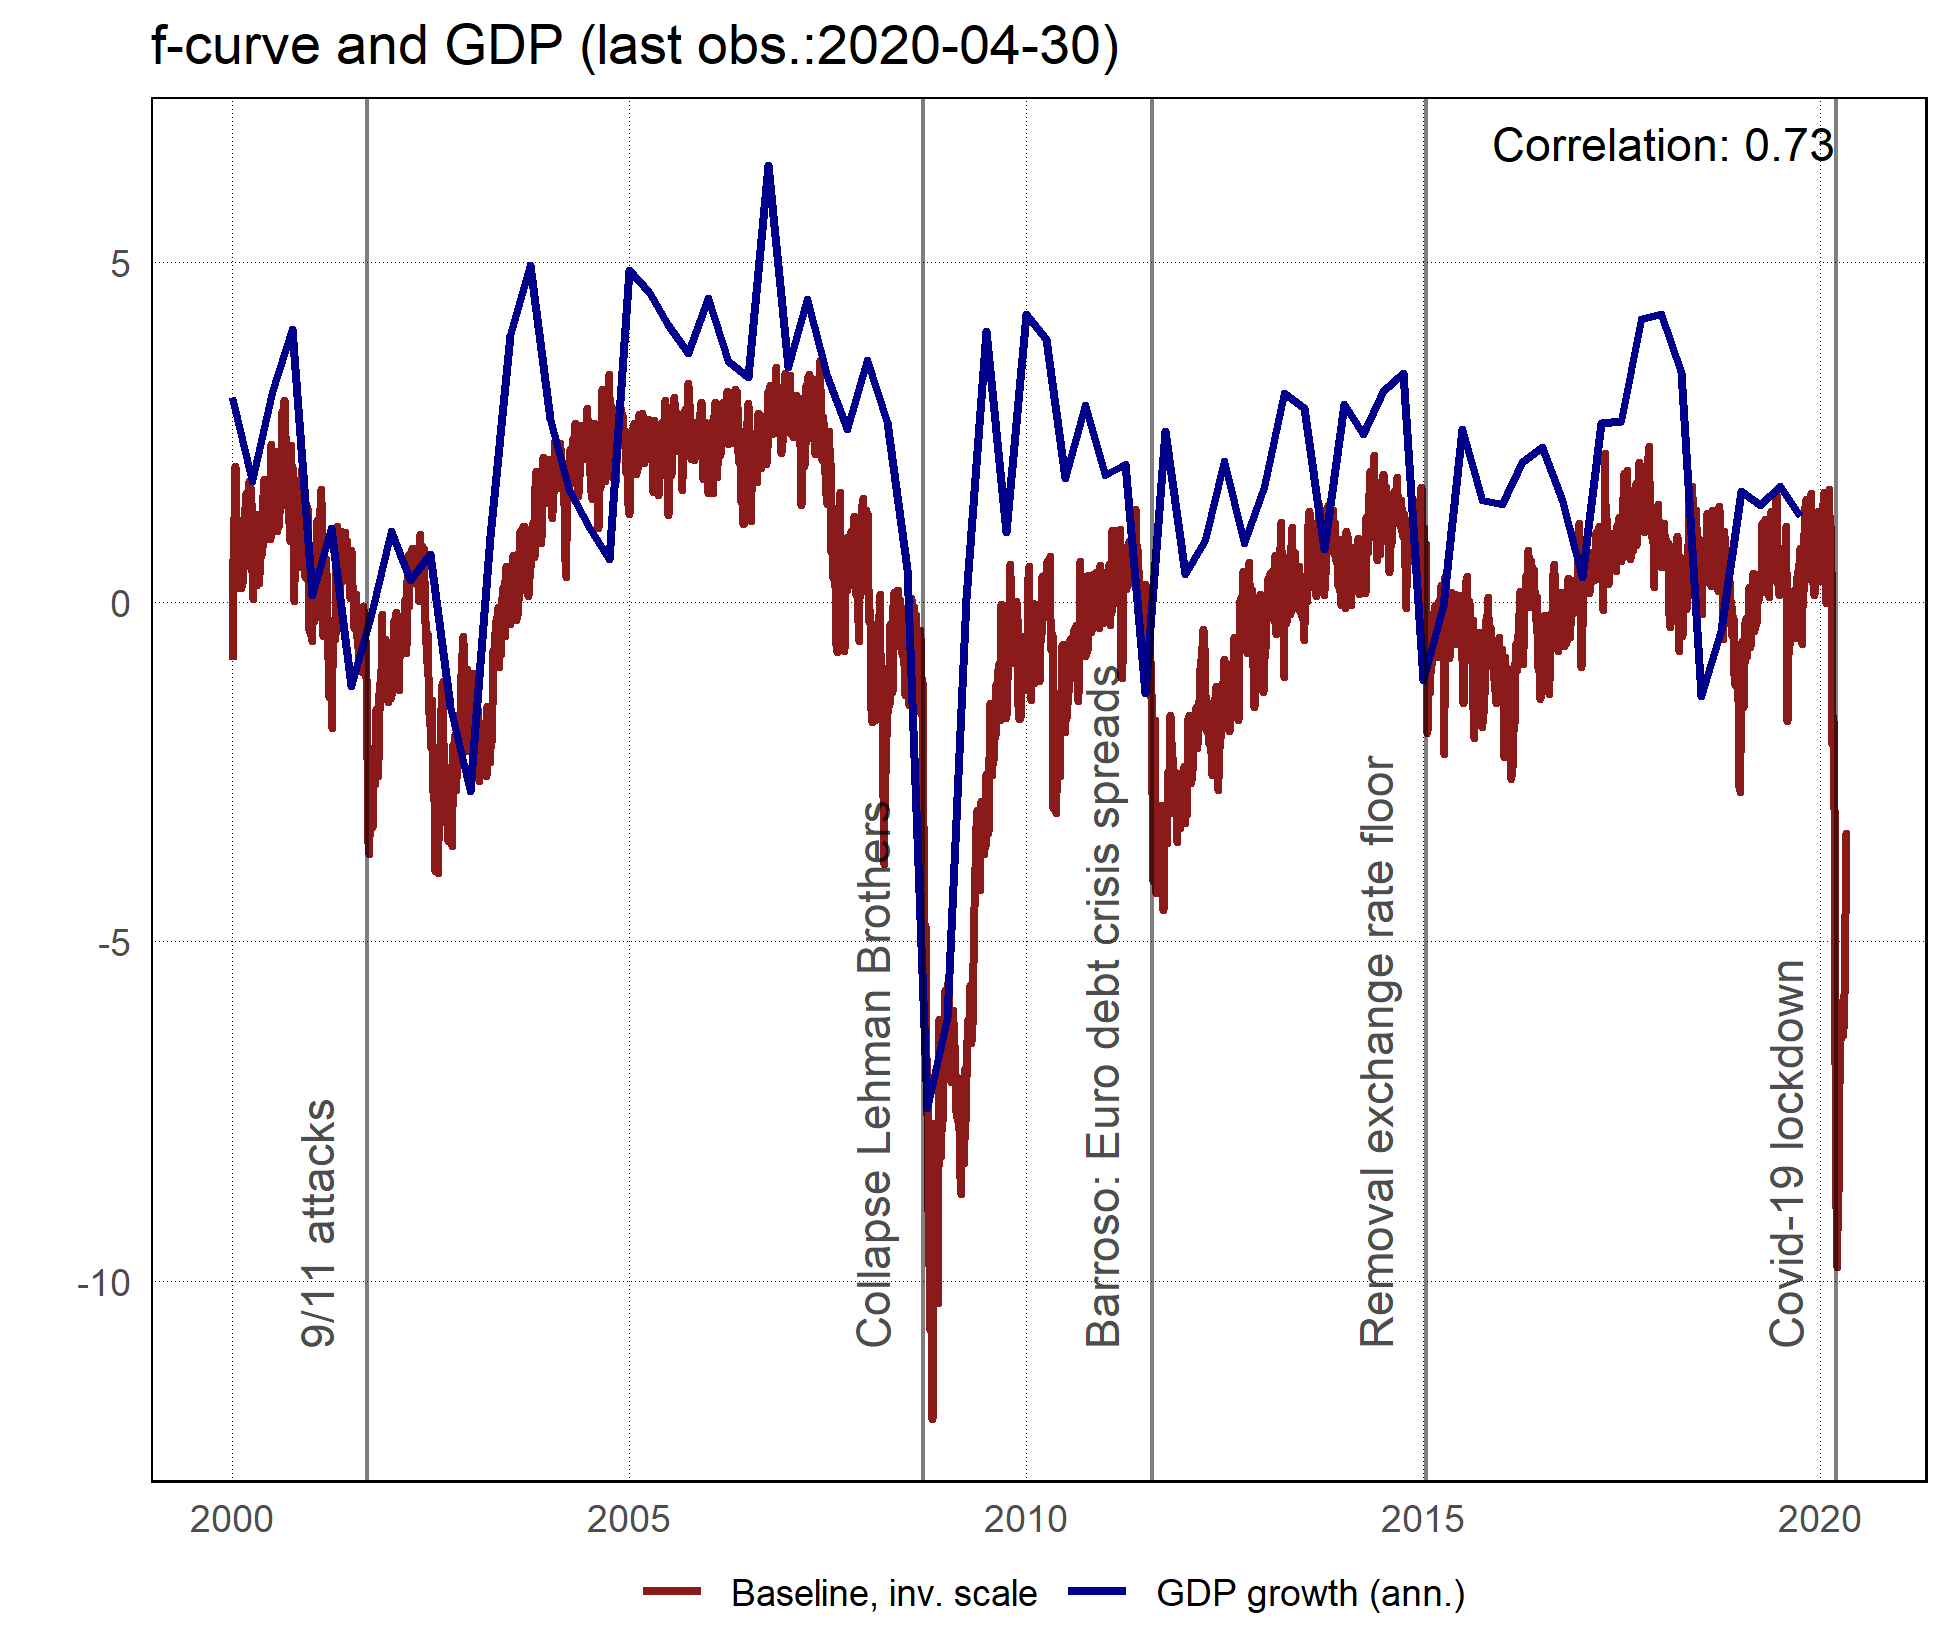
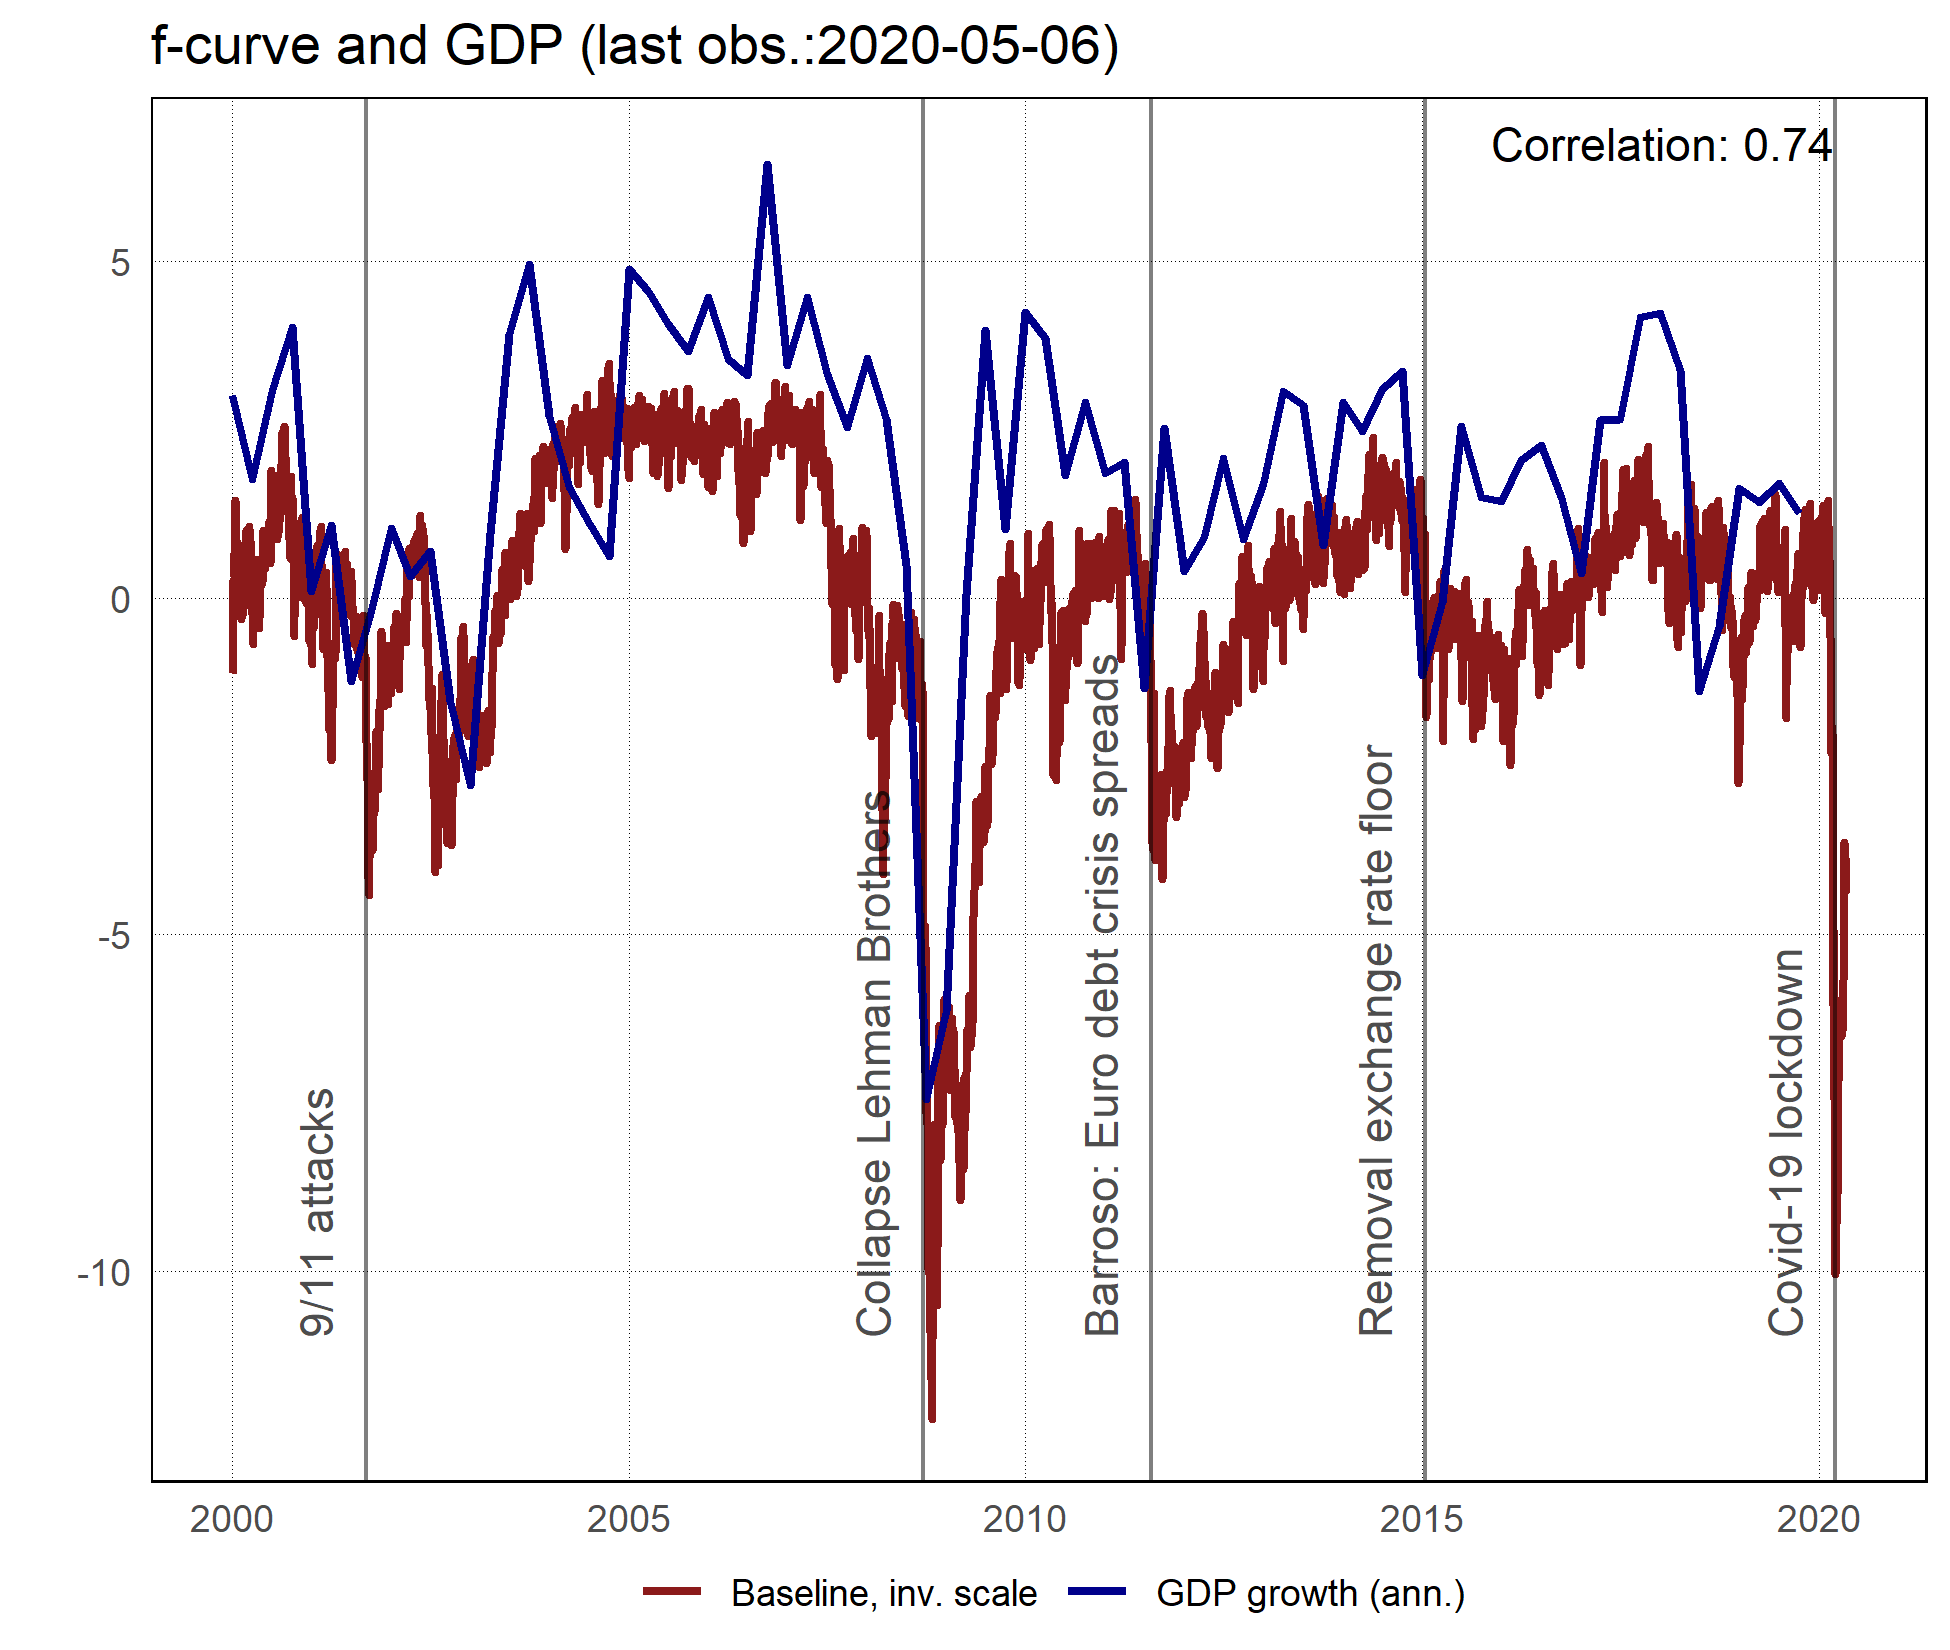
test

diff --git a/README.md b/README.md
@@ -8,10 +8,12 @@
 **Keywords:** Covid-19, Leading indicator, Financial market data, Forecasting, Switzerland
 
 # Current f-curve:
-![Update](./Results/MainGDPShort.png=250x).
+![](./Results/MainGDPShort.png){ width=50% }
+![](./Results/DecompositionShort.png){ width=50% }
 
 # Current GDP forecast:
 {% include './Results/Fcst_GDP.html' %}
 
 # Historical correlation with GDP growth
-![Update](./Results/MainGDP.png=250x).
+![](./Results/MainGDP.png){ width=50% }
+![](./Results/Decomposition.png){ width=50% }
